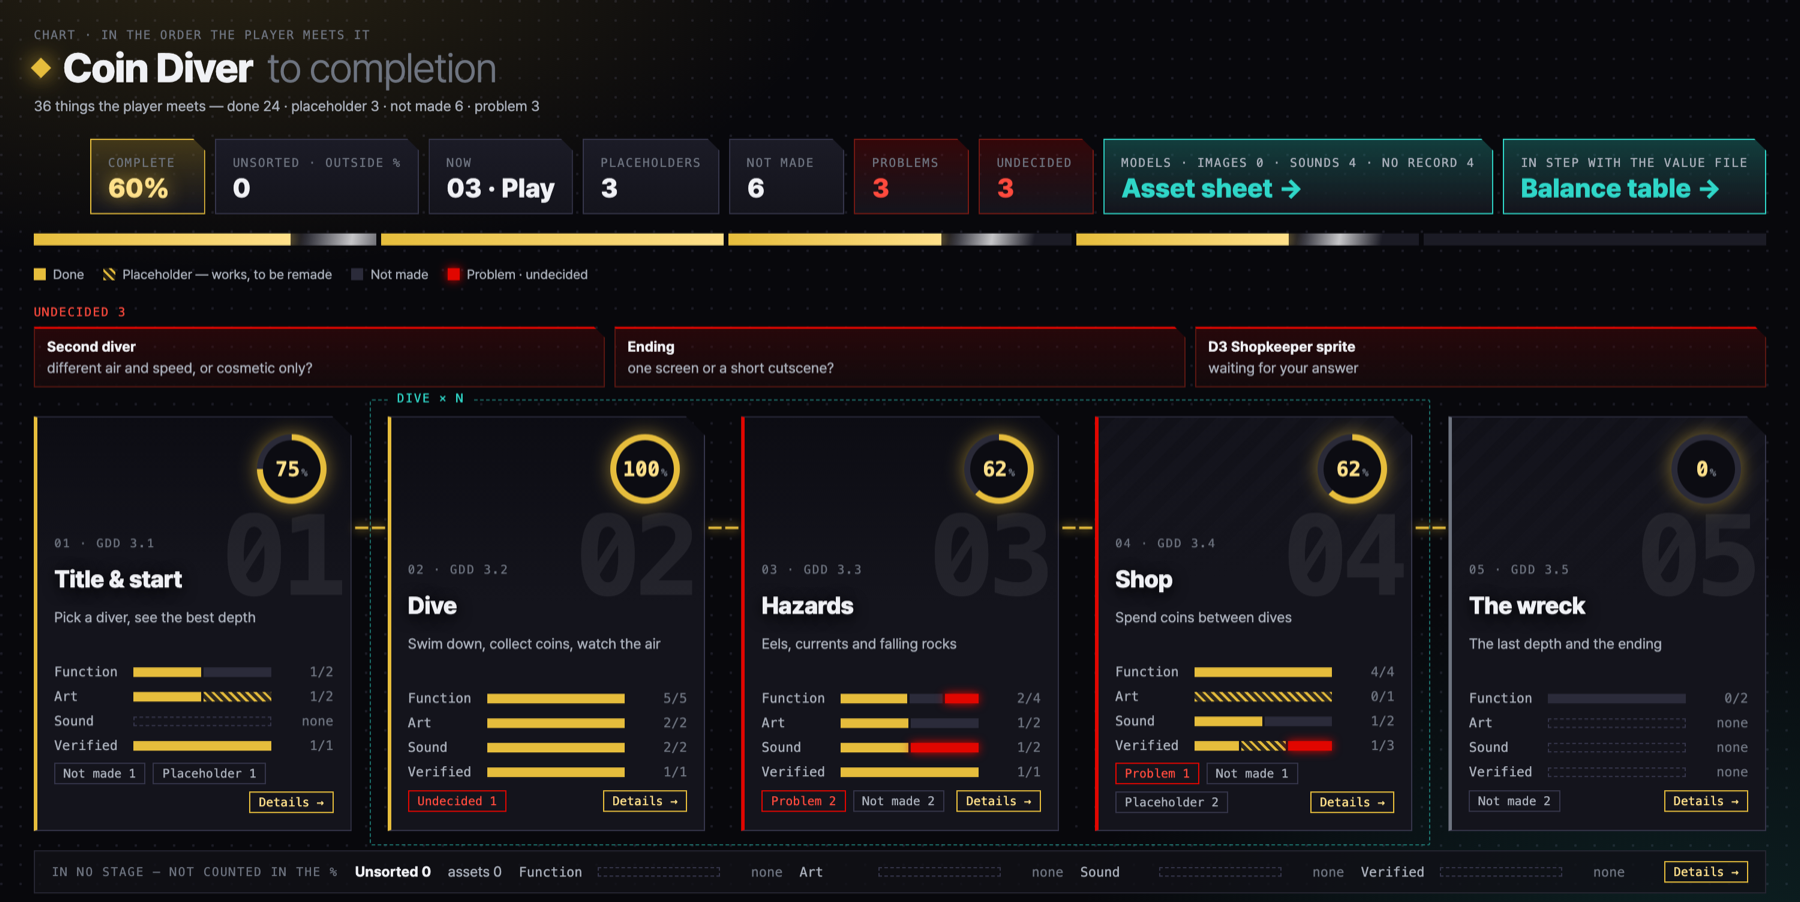
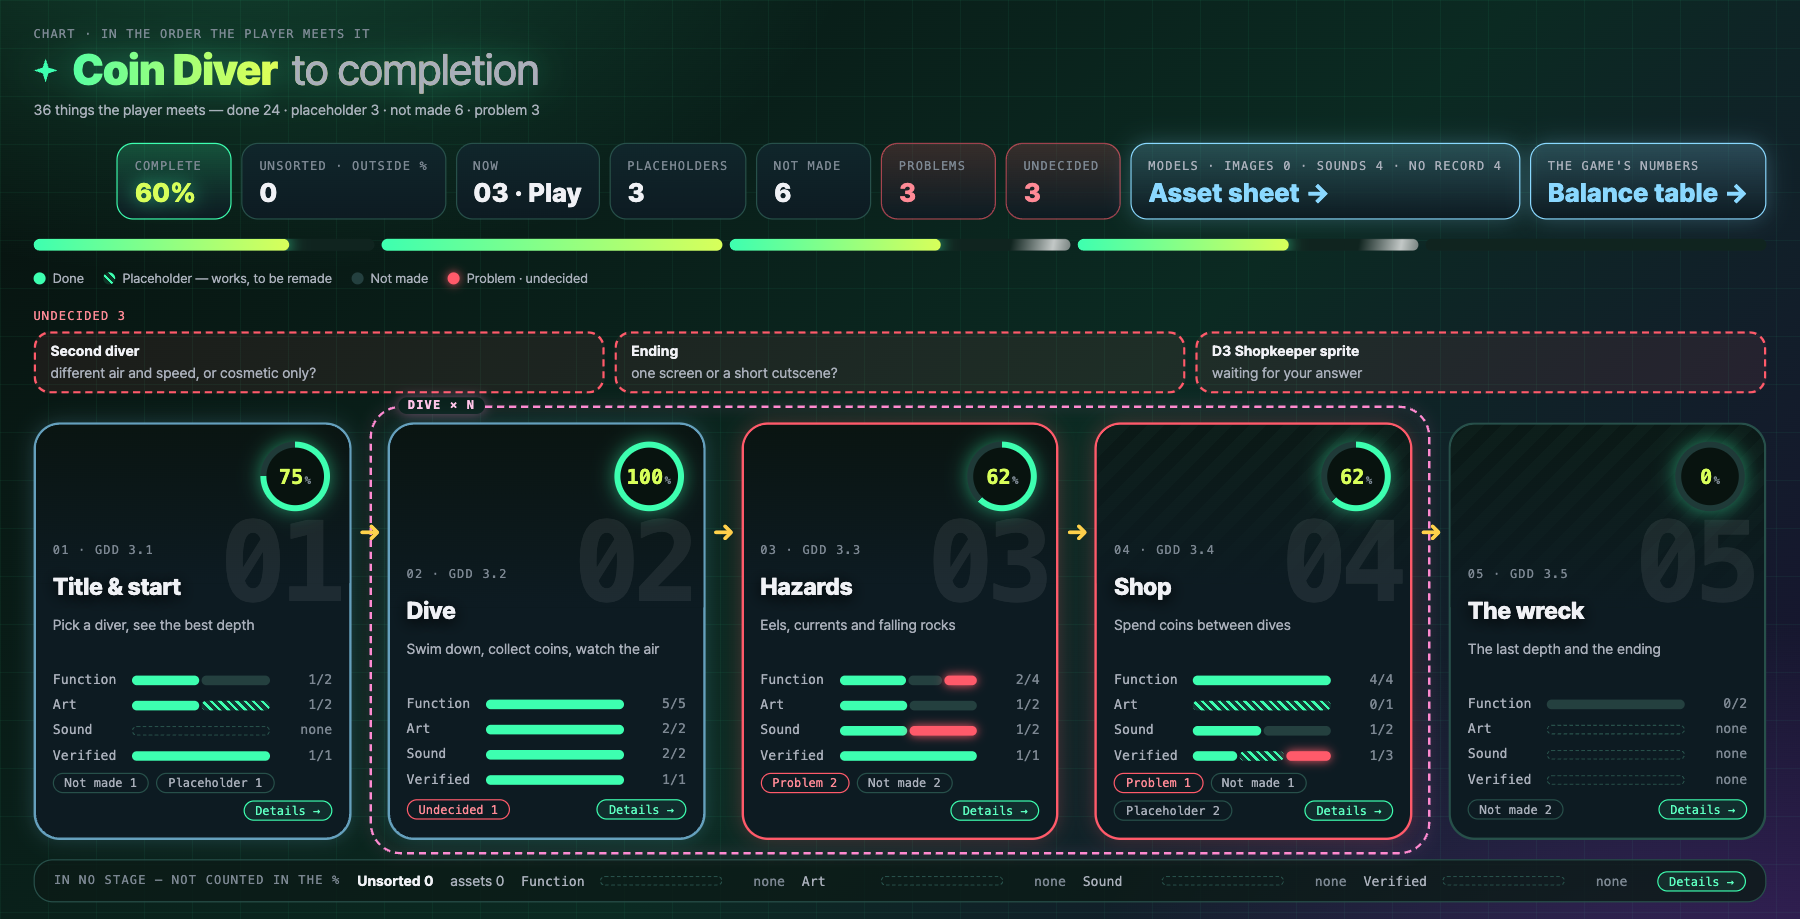
feat: Keros · Outis 제작 과정 페이지도 배너 모양으로 통일, 현황판 그림 교체
세 상세 페이지가 같은 모양(그라데이션 테두리 머리, 알약 단계, 둥근 카드)을 쓴다.
소개 페이지의 현황판 그림은 새 모양의 현황판 캡처로 바꿨다.

diff --git a/src/app/components/activity/detail.css b/src/app/components/activity/detail.css
@@ -1,4 +1,4 @@
-/* 액티비티 상세 페이지. gamedev-kit 현황판(항해도)의 색과 카드 모양을 따른다. */
+/* 액티비티 상세 페이지. 앞쪽은 뼈대이고, 색과 모양은 뒤쪽의 `.detail.kit` — gamedev-kit 배너와 현황판의 모양 — 이 입힌다. */
 .detail {
   --bg: #08080c;
   --card: #14141c;
@@ -621,7 +621,7 @@
   }
 }
 
-/* gamedev-kit 소개 페이지. 키트 배너의 모양을 따른다 — 짙은 초록에서 보라로 가는 바탕, 민트 · 노랑 · 핑크 그라데이션, 알약 단계, 별. */
+/* 세 페이지가 모두 쓰는 모양. 키트 배너의 모양을 따른다 — 짙은 초록에서 보라로 가는 바탕, 민트 · 노랑 · 핑크 그라데이션, 알약 단계, 별. */
 .detail.kit {
   --bg: #07110e;
   --card: #0d1b22;
@@ -693,6 +693,30 @@
 .detail.kit .head-text {
   position: relative;
 }
+/* 영상이나 그림이 있는 머리(게임 페이지)는 카드 안을 두 칸으로 나눈다. */
+.detail.kit .head:has(.media) {
+  display: grid;
+  grid-template-columns: minmax(0, 1fr) minmax(0, 1fr);
+  gap: 32px;
+  align-items: center;
+}
+.detail.kit .head:has(.media) h1 {
+  font-size: 50px;
+}
+.detail.kit .head:has(.media) .sub {
+  font-size: 16px;
+}
+.detail.kit .media {
+  z-index: 1;
+  overflow: hidden;
+  border: 2px solid rgba(138, 216, 255, 0.85);
+  border-radius: 18px;
+  box-shadow: 0 0 22px rgba(138, 216, 255, 0.3);
+}
+.detail.kit .media::before,
+.detail.kit .media::after {
+  display: none;
+}
 .detail.kit h1 {
   font-size: 68px;
   font-weight: 900;
@@ -726,6 +750,12 @@
 }
 .detail.kit .links a:hover {
   background: rgba(61, 255, 176, 0.22);
+}
+/* 별을 담는 칸은 카드 전체에 깔아, 머리의 칸 나눔에 끼어들지 않게 한다. */
+.detail.kit .stars {
+  position: absolute;
+  inset: 0;
+  pointer-events: none;
 }
 .detail.kit .stars i {
   position: absolute;
@@ -801,14 +831,14 @@
 /* 사이클: 배너처럼 알약을 화살표로 잇는다. 내가 하는 단계는 민트로 채우고, 에이전트의 단계는 하늘색 테두리다. */
 .detail.kit .flow {
   --g: 30px;
-  grid-template-columns: repeat(6, minmax(0, 1fr));
+  grid-template-columns: repeat(var(--n), minmax(0, 1fr));
   gap: 6px var(--g);
   margin-top: 10px;
 }
-/* 플레이에서 구현으로 돌아가는 고리 (배너의 fix what you found). 여섯 칸 가운데 다섯째 · 여섯째 알약의 한가운데를 잇는다. */
-.detail.kit .flow::before {
-  content: '찾은 것을 고친다';
-  grid-area: 1 / 5 / 2 / 7;
+/* 마지막 단계에서 그 앞 단계로 돌아가는 고리 (배너의 fix what you found). 끝의 두 알약의 한가운데를 잇는다. */
+.detail.kit .flow[data-loop]::before {
+  content: attr(data-loop);
+  grid-area: 1 / -3 / 2 / -1;
   margin: 0 calc((100% - var(--g)) / 4);
   height: 46px;
   display: grid;
@@ -821,9 +851,9 @@
   color: #ffc4e8;
   filter: drop-shadow(0 0 6px rgba(255, 138, 209, 0.6));
 }
-.detail.kit .flow::after {
+.detail.kit .flow[data-loop]::after {
   content: '';
-  grid-area: 1 / 5 / 2 / 6;
+  grid-area: 1 / -3 / 2 / -2;
   place-self: end center;
   width: 16px;
   height: 10px;
@@ -831,7 +861,7 @@
   background: var(--pink);
   clip-path: polygon(0 0, 100% 0, 50% 100%);
 }
-.detail.kit .slot {
+.detail.kit .flow[data-loop] .slot {
   grid-row: 2;
 }
 .detail.kit .slot:hover {
@@ -1157,6 +1187,30 @@
   margin-top: 16px;
   flex-wrap: wrap;
 }
+.detail.kit .skills li {
+  border-top-width: 1px;
+  border-radius: 18px;
+  padding: 14px 18px 16px;
+}
+.detail.kit .skills li:hover {
+  box-shadow: 0 12px 26px rgba(61, 255, 176, 0.2);
+}
+.detail.kit .skills code {
+  color: var(--gold2);
+}
+.detail.kit .skills .tag {
+  border-radius: 999px;
+  padding: 1px 8px;
+}
+.detail.kit .board {
+  border: 2px solid rgba(138, 216, 255, 0.85);
+  border-radius: 22px;
+  padding: 16px;
+  box-shadow: 0 0 18px rgba(138, 216, 255, 0.22);
+}
+.detail.kit .board img {
+  border-radius: 12px;
+}
 .detail.kit .cycles li {
   border-left-width: 1px;
   border-radius: 18px;
@@ -1179,12 +1233,15 @@
     grid-template-columns: repeat(3, minmax(0, 1fr));
     row-gap: 26px;
   }
-  .detail.kit .flow::before,
-  .detail.kit .flow::after {
+  .detail.kit .flow[data-loop]::before,
+  .detail.kit .flow[data-loop]::after {
     display: none;
   }
-  .detail.kit .slot {
+  .detail.kit .flow[data-loop] .slot {
     grid-row: auto;
+  }
+  .detail.kit .head:has(.media) {
+    grid-template-columns: minmax(0, 1fr);
   }
   .detail.kit .flow[data-cols] .slot:nth-child(3n)::after {
     display: none;
@@ -1330,7 +1387,7 @@
 .detail-panel .detail {
   background-attachment: scroll;
 }
-.detail-panel:has(.detail.kit) {
+.detail-panel {
   background: #07110e;
   border-left-color: #3dffb0;
   box-shadow: -30px 0 80px rgba(61, 255, 176, 0.16);

diff --git a/src/data/activityDetails.ts b/src/data/activityDetails.ts
@@ -35,6 +35,8 @@ export interface FlowStage {
 // after 는 매번 돌지 않아 줄 밖에 따로 두는 단계다 (when 에 언제 하는지를 적는다).
 export type FlowSection = SectionHead & {
   legend?: { me: string; ai: string };
+  // 마지막 단계에서 그 앞 단계로 돌아가는 고리에 적는 말 (없으면 고리를 그리지 않는다)
+  loop?: string;
   stages: FlowStage[];
   after?: FlowStage & { when: string };
 };
@@ -98,8 +100,6 @@ export interface ActivityDetail {
   banner?: string;
   // 배너 그림이 그 페이지의 것이 아닐 때 대체 글자를 따로 적는다.
   bannerAlt?: string;
-  // 페이지의 모양. 'kit'은 gamedev-kit 배너의 모양(민트 · 핑크 그라데이션, 알약 단계)을 따르고, 머리에 그림 대신 글만 둔다.
-  theme?: 'kit';
   videoId?: string;
   links: DetailLink[];
   tiles: DetailTile[];
@@ -218,7 +218,6 @@ export const activityDetails: ActivityDetail[] = [
     heading: '소개',
     summary:
       '기획서(GDD)를 기반으로 기획부터 구현, 플레이까지를 하나의 일관된 사이클로 진행하는 게임 개발 워크플로우다. 단계마다 역할을 나눠 맡은 AI 에이전트가 일하고, 목표를 정하는 것과 직접 플레이하는 것은 내가 한다.',
-    theme: 'kit',
     links: [
       { label: 'GitHub', href: 'https://github.com/dudwns0921/claude-gamedev-kit' },
       { label: 'Threads', href: 'https://www.threads.com/@glowingjung/post/DeRzUkfGjII?hl=ko' },
@@ -234,6 +233,7 @@ export const activityDetails: ActivityDetail[] = [
       title: '사이클',
       lead: 'AI로 만들다 보면 그때그때 생각나는 대로 진행하게 돼서, 목표 하나마다 아래 단계를 한 바퀴 돌게 했다.',
       legend: { me: '내가 하는 단계', ai: 'AI 에이전트가 하는 단계' },
+      loop: '찾은 것을 고친다',
       stages: [
         { name: '목표', owner: '나', byUser: true, line: '이번에 무엇을 만들지 내가 정해서 말한다.' },
         { name: '기획', owner: 'systems-designer', model: 'Opus', line: '플레이어가 무엇을 하면 어떻게 되는지를 규칙과 숫자로 쓴다.' },

diff --git a/src/app/components/activity/ActivityDetailView.tsx b/src/app/components/activity/ActivityDetailView.tsx
@@ -76,7 +76,12 @@ const FlowBlock = ({ section, onNavigate }: { section: FlowSection; onNavigate?:
   return (
     <section>
       <SectionHead {...section} onNavigate={onNavigate} />
-      <ol className="flow" data-cols={cols} style={{ '--cols': cols } as React.CSSProperties}>
+      <ol
+        className="flow"
+        data-cols={cols}
+        data-loop={section.loop}
+        style={{ '--cols': cols, '--n': count } as React.CSSProperties}
+      >
         {section.stages.map((stage, i) => (
           <li key={stage.name} className="slot" style={{ '--i': i } as React.CSSProperties}>
             <div className={`node ${stage.byUser ? 'me' : ''}`}>
@@ -231,7 +236,7 @@ const CardBlock = ({
 
 const ActivityDetailView = ({ detail, onClose, onNavigate }: ActivityDetailViewProps) => {
   return (
-    <div className={`detail ${detail.theme ?? ''}`}>
+    <div className="detail kit">
       <div className="detail-page">
         <div className="bar">
           {onClose ? (
@@ -247,14 +252,12 @@ const ActivityDetailView = ({ detail, onClose, onNavigate }: ActivityDetailViewP
         </div>
 
         <header className="head">
-          {detail.theme === 'kit' && (
-            // 배너의 반짝이는 별. 자리와 색은 CSS가 정한다.
-            <div className="stars" aria-hidden="true">
-              {Array.from({ length: 12 }, (_, i) => (
-                <i key={i} />
-              ))}
-            </div>
-          )}
+          {/* 배너의 반짝이는 별. 자리와 색은 CSS가 정한다. */}
+          <div className="stars" aria-hidden="true">
+            {Array.from({ length: 12 }, (_, i) => (
+              <i key={i} />
+            ))}
+          </div>
           <div className="head-text">
             <div className="lab">{detail.kicker}</div>
             <h1>
